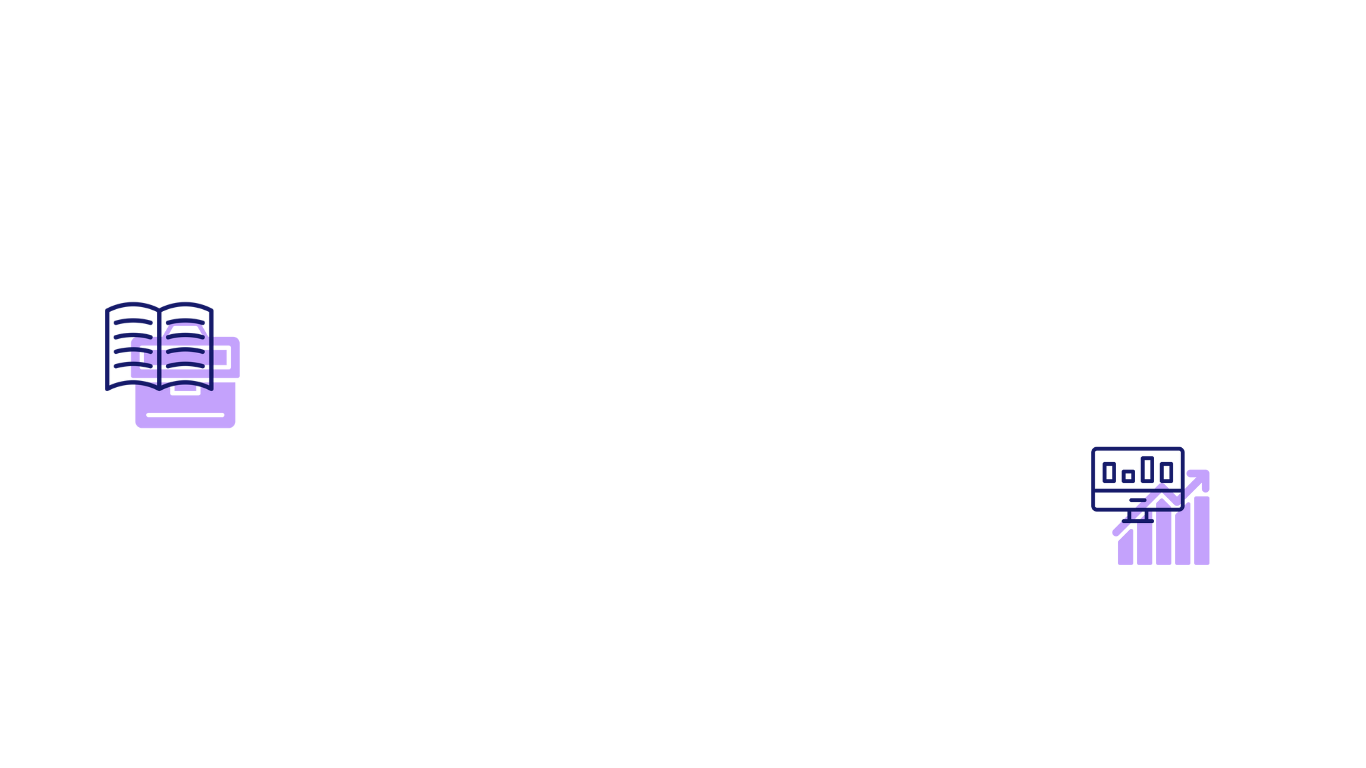
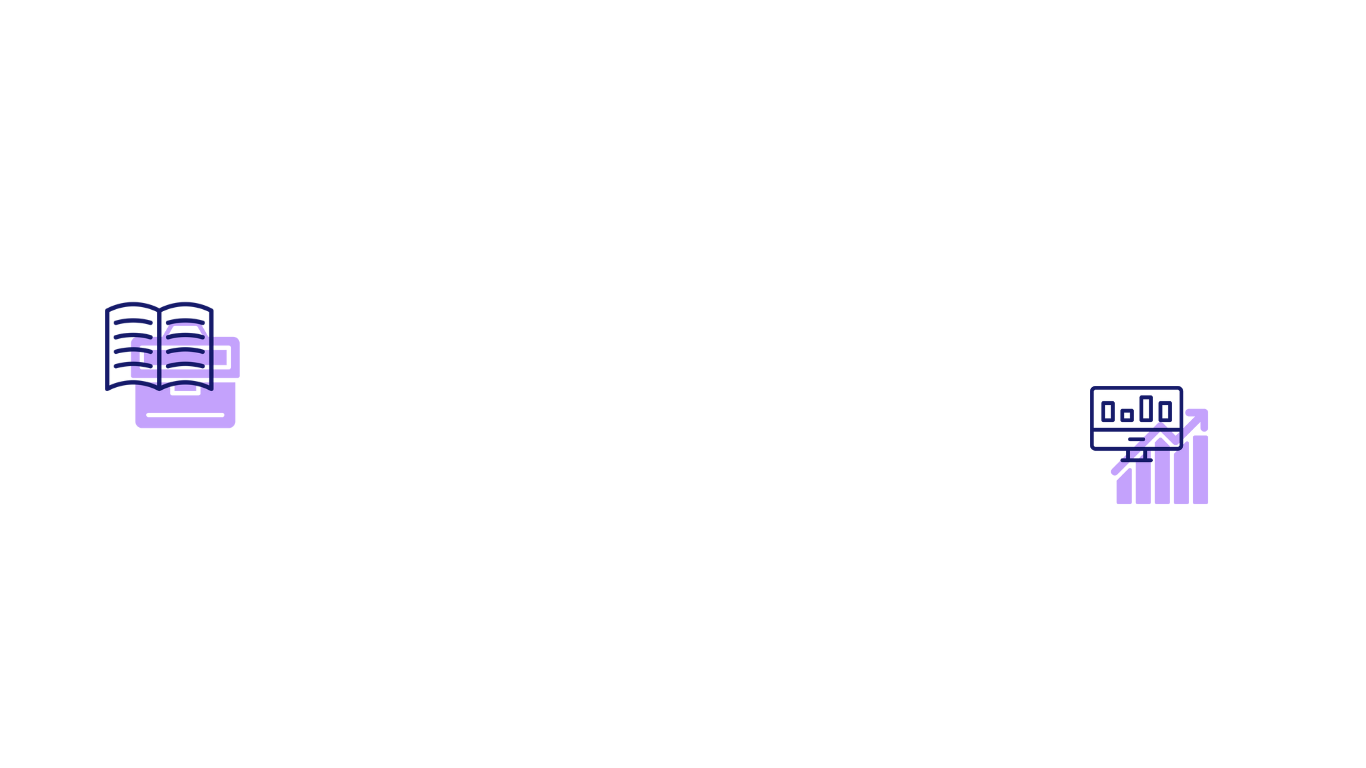
mudei o espaço da pagina sobre nos

Changed region(s): [[0.7994, 0.5, 0.8917, 0.75]]

diff --git a/src/CSS/nossaHIstoria.css b/src/CSS/nossaHIstoria.css
@@ -1,11 +1,11 @@
 #NossaHistoria{
     display: flex;
-    min-height: calc(50vh - 92px);
+    min-height: calc(40vh - 92px);
     width: 100%;
     position: relative;
     margin: auto;
     padding: 28px 8%;
-    background-image: url(../img/FundoSobreNos.png);
+    background-image: url(../img/teste.png);
     background-size: cover;
     background-repeat: no-repeat;
     background-position: center;
